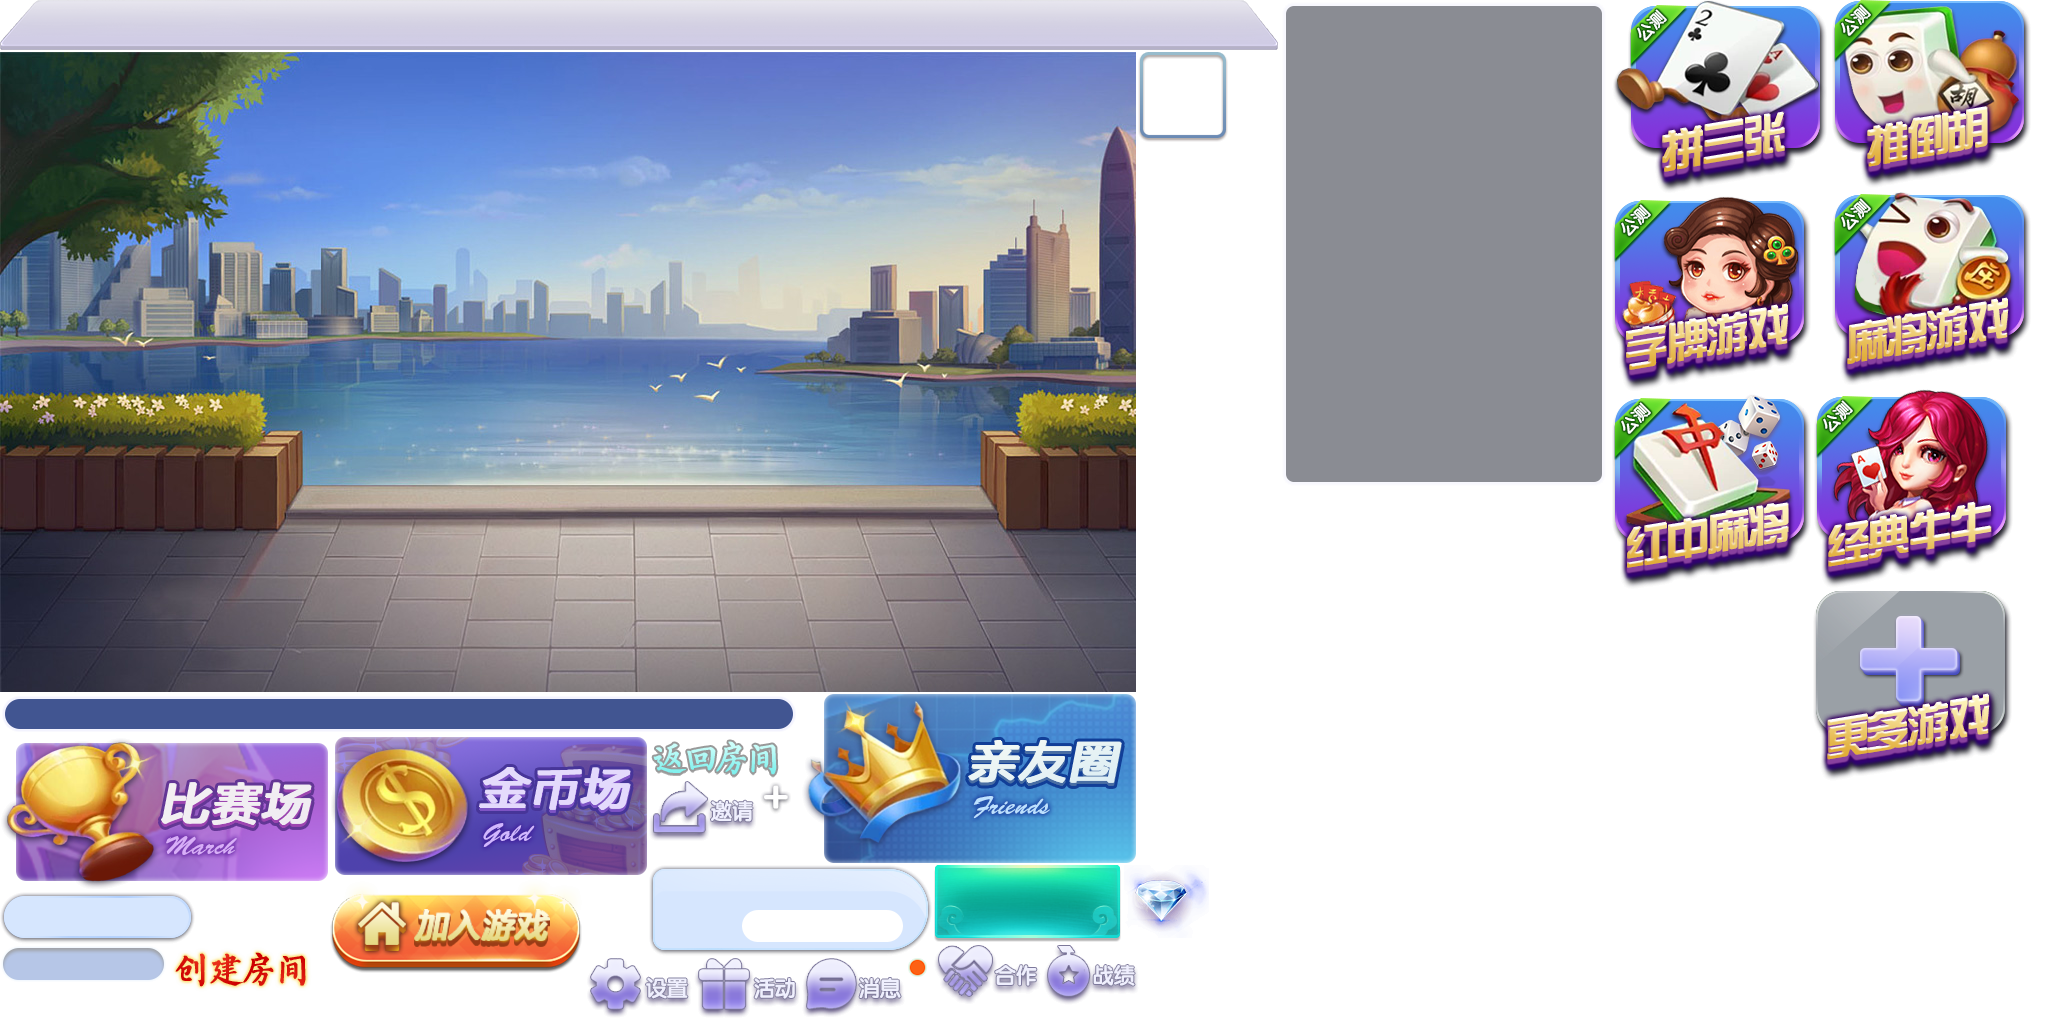
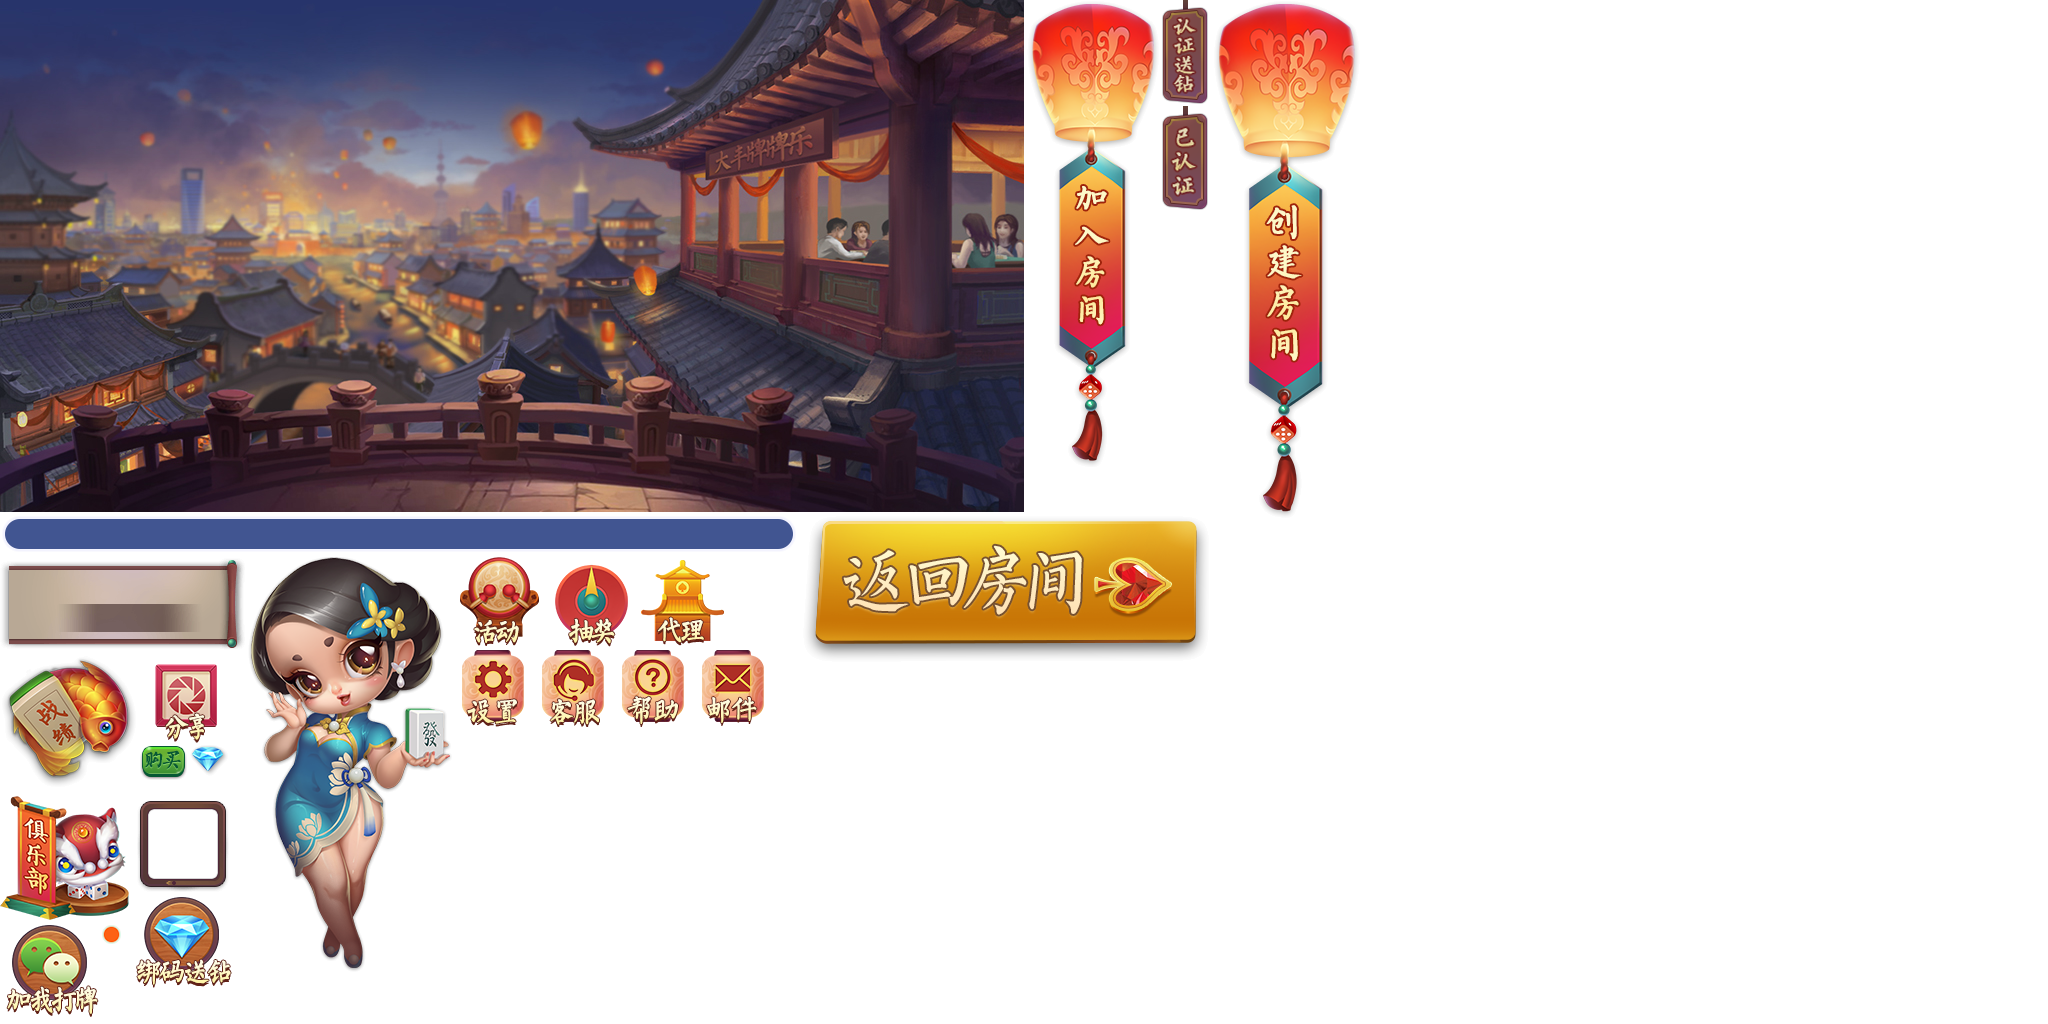
替换UI

diff --git a/assets/Script/modules/lobby/views/LobbyView.ts b/assets/Script/modules/lobby/views/LobbyView.ts
@@ -1,7 +1,7 @@
 import { WeiXinSDK } from "../chanelSdk/wxSdk/WeiXinSDkExports";
 import {
     CommonFunction,
-    DataStore, Dialog, GameModuleLaunchArgs, KeyConstants, LEnv, LobbyModuleInterface, Logger, NewRoomViewPath
+    DataStore, KeyConstants, LEnv, LobbyModuleInterface, Logger, NewRoomViewPath
 } from "../lcore/LCoreExports";
 import { LMsgCenter } from "../LMsgCenter";
 import { proto } from "../proto/protoLobby";
@@ -57,10 +57,10 @@ export class LobbyView extends cc.Component {
         this.lm = lm;
         const loader = lm.loader;
 
-        loader.fguiAddPackage("lobby/fui/lobby_main");
-
         // 加载共用背景包
         loader.fguiAddPackage("lobby/fui_bg/lobby_bg_package");
+
+        loader.fguiAddPackage("lobby/fui/lobby_main");
 
         const view = fgui.UIPackage.createObject("lobby_main", "Main").asCom;
         fgui.GRoot.inst.addChild(view);
@@ -73,7 +73,7 @@ export class LobbyView extends cc.Component {
             // i phone x 的黑边为 CommonFunction.IOS_ADAPTER_WIDTH
             x = x - CommonFunction.IOS_ADAPTER_WIDTH;
         }
-        const bg = this.view.getChild('n21');
+        const bg = this.view.getChild('bg');
         bg.setPosition(-x, 0);
         CommonFunction.setBgFullScreen(bg);
 
@@ -106,7 +106,7 @@ export class LobbyView extends cc.Component {
 
     private updateEmailRedPoint(): void {
         //
-        const emailBtn = this.view.getChild("n9").asCom;
+        const emailBtn = this.view.getChild("emailBtn").asCom;
         const redPoint = emailBtn.getChild("redPoint");
         redPoint.visible = true;
     }
@@ -124,36 +124,42 @@ export class LobbyView extends cc.Component {
         }
     }
     private initView(): void {
-        const friendBtn = this.view.getChild("n1");
-        friendBtn.onClick(this.onFriendClick, this);
+        const clubBtn = this.view.getChild("clubBtn");
+        clubBtn.onClick(this.onFriendClick, this);
 
-        const createBtn = this.view.getChild("n4");
-        createBtn.onClick(this.onCreateClick, this);
+        const btnZJ = this.view.getChild("btnZJ");
+        btnZJ.onClick(this.openRecordView, this);
 
-        const coinBtn = this.view.getChild("n5");
-        coinBtn.onClick(this.onCoinClick, this);
-
-        //--const listView = this.view.getChild("n29")
-        const dfTestBtn = this.view.getChild("n8");
-        dfTestBtn.onClick(this.openRecordView, this);
-
-        const emailBtn = this.view.getChild("n9");
+        const emailBtn = this.view.getChild("emailBtn");
         emailBtn.onClick(this.openEmailView, this);
 
-        const joinRoomBtn = this.view.getChild("n12");
+        const joinRoomBtn = this.view.getChild("joinRoomBtn");
         joinRoomBtn.onClick(this.onJoinRoom, this);
 
         const createRoom = this.view.getChild("createRoom");
         createRoom.onClick(this.onCreateRoom, this);
 
+        const settingBtn = this.view.getChild("settingBtn");
+        settingBtn.onClick(this.onSettingBtnClick, this);
+
         const returnGameBtn = this.view.getChild("returnGameBtn");
         returnGameBtn.onClick(this.onReturnGameBtnClick, this);
 
-        const userInfo = this.view.getChild("userInfo").asCom;
-        this.initInfoView(userInfo);
-        userInfo.onClick(this.openUserInfoView, this);
+        const activeBtn = this.view.getChild("activeBtn");
+        activeBtn.onClick(this.onActiveBtnClick, this);
 
-        // const bg = this.view.getChild('n21');
+        const hezuoBtn = this.view.getChild("hezuoBtn");
+        hezuoBtn.onClick(this.onHZBtnClick, this);
+
+        const shareBtn = this.view.getChild("shareBtn");
+        shareBtn.onClick(this.onShareBtnClick, this);
+
+        const icon = this.view.getChild("loader");
+        icon.onClick(this.openUserInfoView, this);
+
+        this.initInfoView();
+
+        // const bg = this.view.getChild('bg');
         // bg.setSize(cc.winSize.width, cc.winSize.width * 640 / 1136);
         // const y = -(cc.winSize.width * 640 / 1136 - cc.winSize.height) / 2;
         // const x = (cc.winSize.height * 1136 / 640 / 2) - cc.winSize.width / 2;
@@ -181,42 +187,58 @@ export class LobbyView extends cc.Component {
 
     }
 
-    private onCreateClick(): void {
-        // TODO:
-        const myUser = { userID: "6" };
-        const roomConfigObj = {
-            roomType: 21
-        };
-
-        const roomInfo = {
-            roomID: "monkey-room",
-            roomNumber: "monkey-room",
-            config: JSON.stringify(roomConfigObj),
-            gameServerID: "uuid"
-        };
-
-        const params: GameModuleLaunchArgs = {
-            jsonString: "",
-            userInfo: myUser,
-            roomInfo: roomInfo,
-            record: null
-        };
-
-        //this.enterGame(roomInfo);
-
-        this.lm.switchToGame(params, "gameb");
+    private onSettingBtnClick(): void {
+        //
     }
 
-    private onCoinClick(): void {
-        // TODO:
-        Dialog.showWaiting();
-
-        this.scheduleOnce(
-            () => {
-                Dialog.hideWaiting();
-            },
-            5);
+    private onActiveBtnClick(): void {
+        //
     }
+
+    private onHZBtnClick(): void {
+        //
+    }
+
+    private onShareBtnClick(): void {
+        //
+    }
+
+    // private onCreateClick(): void {
+    //     // TODO:
+    //     const myUser = { userID: "6" };
+    //     const roomConfigObj = {
+    //         roomType: 21
+    //     };
+
+    //     const roomInfo = {
+    //         roomID: "monkey-room",
+    //         roomNumber: "monkey-room",
+    //         config: JSON.stringify(roomConfigObj),
+    //         gameServerID: "uuid"
+    //     };
+
+    //     const params: GameModuleLaunchArgs = {
+    //         jsonString: "",
+    //         userInfo: myUser,
+    //         roomInfo: roomInfo,
+    //         record: null
+    //     };
+
+    //     //this.enterGame(roomInfo);
+
+    //     this.lm.switchToGame(params, "gameb");
+    // }
+
+    // private onCoinClick(): void {
+    //     // TODO:
+    //     Dialog.showWaiting();
+
+    //     this.scheduleOnce(
+    //         () => {
+    //             Dialog.hideWaiting();
+    //         },
+    //         5);
+    // }
 
     private openRecordView(): void {
         // TODO:
@@ -224,7 +246,7 @@ export class LobbyView extends cc.Component {
     }
 
     private openEmailView(): void {
-        const emailBtn = this.view.getChild("n9").asCom;
+        const emailBtn = this.view.getChild("emailBtn").asCom;
         const redPoint = emailBtn.getChild("redPoint");
         redPoint.visible = false;
         this.addComponent(EmailView);
@@ -267,9 +289,8 @@ export class LobbyView extends cc.Component {
         this.addComponent(UserInfoView);
     }
 
-    private initInfoView(userInfo: fgui.GComponent): void {
-        const nameLab = userInfo.getChild("name");
-        const idLab = userInfo.getChild("id");
+    private initInfoView(): void {
+        const nameLab = this.view.getChild("name");
 
         if (DataStore.hasKey(KeyConstants.NICK_NAME)) {
             const name = DataStore.getString(KeyConstants.NICK_NAME);
@@ -283,27 +304,19 @@ export class LobbyView extends cc.Component {
         }
 
         const gender = +DataStore.getString(KeyConstants.SEX);
-        const iconLoader = userInfo.getChild("loader").asLoader;
+        const iconLoader = this.view.getChild("loader").asLoader;
         const headImgUrl = DataStore.getString(KeyConstants.HEAL_IMG_URL);
         CommonFunction.setHead(iconLoader, headImgUrl, +gender);
 
-        idLab.text = `ID: ${DataStore.getString(KeyConstants.USER_ID)} `;
-        const diamondNode = this.view.getChild("diamondNode").asCom;
-        const diamondText = diamondNode.getChild(KeyConstants.DIAMOND);
+        const diamondText = this.view.getChild("diamond");
         this.diamondText = diamondText;
         this.diamondText.text = DataStore.getString(KeyConstants.DIAMOND);
 
-        const addDiamond = diamondNode.getChild("addDiamond");
+        const addDiamond = this.view.getChild("addDiamond");
         addDiamond.onClick(this.goShop, this);
-
-        this.registerDiamondChange();
     }
 
     private goShop(): void {
-        // TODO:
-    }
-
-    private registerDiamondChange(): void {
         // TODO:
     }
 

diff --git a/assets/Script/modules/lobby/views/LoginView.ts b/assets/Script/modules/lobby/views/LoginView.ts
@@ -19,11 +19,14 @@ export class LoginView extends cc.Component {
 
     private eventTarget: cc.EventTarget;
 
+    private progressText: fgui.GTextField;
+
     private button: UserInfoButton = null;
 
     public showLoginView(): void {
         const lm = <LobbyModuleInterface>this.getComponent("LobbyModule");
         const loader = lm.loader;
+
         loader.fguiAddPackage("launch/fui_login/lobby_login");
         const view = fgui.UIPackage.createObject("lobby_login", "login").asCom;
 
@@ -58,6 +61,12 @@ export class LoginView extends cc.Component {
 
     public updateProgressBar(progress: number): void {
         this.progressBar.value = progress * 100;
+        if (this.progressText !== undefined && this.progressText !== null) {
+
+            const text = progress * 100;
+            this.progressText.text = `正在加载${text.toFixed(0)}%`;
+        }
+
     }
 
     public initView(): void {
@@ -66,24 +75,32 @@ export class LoginView extends cc.Component {
         this.weixinButton = this.viewNode.getChild("n3");
         this.progressBar = this.viewNode.getChild("n4").asProgress;
 
+        const children = this.viewNode._children;
+
+        for (const child of children) {
+            Logger.debug(child.name);
+        }
+
+        this.progressText = this.viewNode.getChild("progressText").asTextField;
+
         const gameAdviceText = this.viewNode.getChild("gameAdvice");
         const text1 = this.viewNode.getChild("text1");
         const text2 = this.viewNode.getChild("text2");
-        const text3 = this.viewNode.getChild("text3");
-        const text4 = this.viewNode.getChild("text4");
-        const text5 = this.viewNode.getChild("text5");
-        const text6 = this.viewNode.getChild("text6");
+        // const text3 = this.viewNode.getChild("text3");
+        // const text4 = this.viewNode.getChild("text4");
+        // const text5 = this.viewNode.getChild("text5");
+        // const text6 = this.viewNode.getChild("text6");
 
         const versionName = this.viewNode.getChild("versionName");
         versionName.text = LEnv.VER_STR;
 
-        gameAdviceText.text = "抵制不良游戏，拒绝盗版游戏。注意自我保护，谨防受骗上当。适度游戏益脑，沉迷游戏伤身。合理安排时间，享受健康生活。";
-        text1.text = "出版单位：深圳市xxx科技有限公司";
-        text2.text = "审批文号：xxxxxxxxxxxx";
-        text3.text = "网络游戏出版物号：123456789";
-        text4.text = "游戏著作权人：深圳市xxx科技有限公司";
-        text5.text = "增值电信业务：46546546546";
-        text6.text = "粤网文：深圳市xxx科技有限公司";
+        gameAdviceText.text = "健康游戏忠告 : 抵制不良游戏,拒绝盗版游戏.注意自我保护,谨防受骗上当.适度游戏益脑,沉迷游戏伤身.合理安排时间，享受健康生活.";
+        text1.text = "著作权登记号：201925251515";
+        text2.text = "著作权人：深圳市xxx科技有限公司";
+        // text3.text = "著作权登记号：201925251515";
+        // text4.text = "著作权人：深圳市xxx科技有限公司";
+        // text5.text = "增值电信业务：46546546546";
+        // text6.text = "粤网文：深圳市xxx科技有限公司";
 
         this.loginBtn.visible = false;
         this.weixinButton.visible = false;
@@ -106,6 +123,7 @@ export class LoginView extends cc.Component {
 
     public updateCompleted(): void {
         this.progressBar.visible = false;
+        this.progressText.visible = false;
         this.weixinButton.visible = true;
         this.loginBtn.visible = true;
     }

diff --git a/assets/Script/modules/lobby/views/EmailView.ts b/assets/Script/modules/lobby/views/EmailView.ts
@@ -27,6 +27,8 @@ export class EmailView extends cc.Component {
 
     private lobbyModule: LobbyModuleInterface;
 
+    private takeBtn: fgui.GButton;
+
     protected onMessage(data: ByteBuffer): void {
         Logger.debug("EmailView.onMessage");
 
@@ -77,8 +79,10 @@ export class EmailView extends cc.Component {
             backBtn.onClick(this.onCloseClick, this);
         }
 
-        const takeBtn = this.view.getChild("takeBtn");
-        takeBtn.onClick(this.onTakeBtnClick, this);
+        const takeBtn = this.view.getChild("takeBtn").asButton;
+        this.takeBtn = takeBtn;
+        this.takeBtn.visible = false;
+        this.takeBtn.onClick(this.onTakeBtnClick, this);
 
         this.emailContent = this.view.getChild("textComponent").asCom.getChild("text");
         this.emailTitle = this.view.getChild("title");
@@ -240,8 +244,10 @@ export class EmailView extends cc.Component {
     // 附件个数，现在暂时为1
     private updateAttachmentsView(): void {
         if (this.selectedEmail.attachments !== undefined || this.selectedEmail.attachments !== null) {
+            this.takeBtn.visible = true;
             this.attachmentsList.numItems = 1;
         } else {
+            this.takeBtn.visible = false;
             this.attachmentsList.numItems = 0;
         }
 
